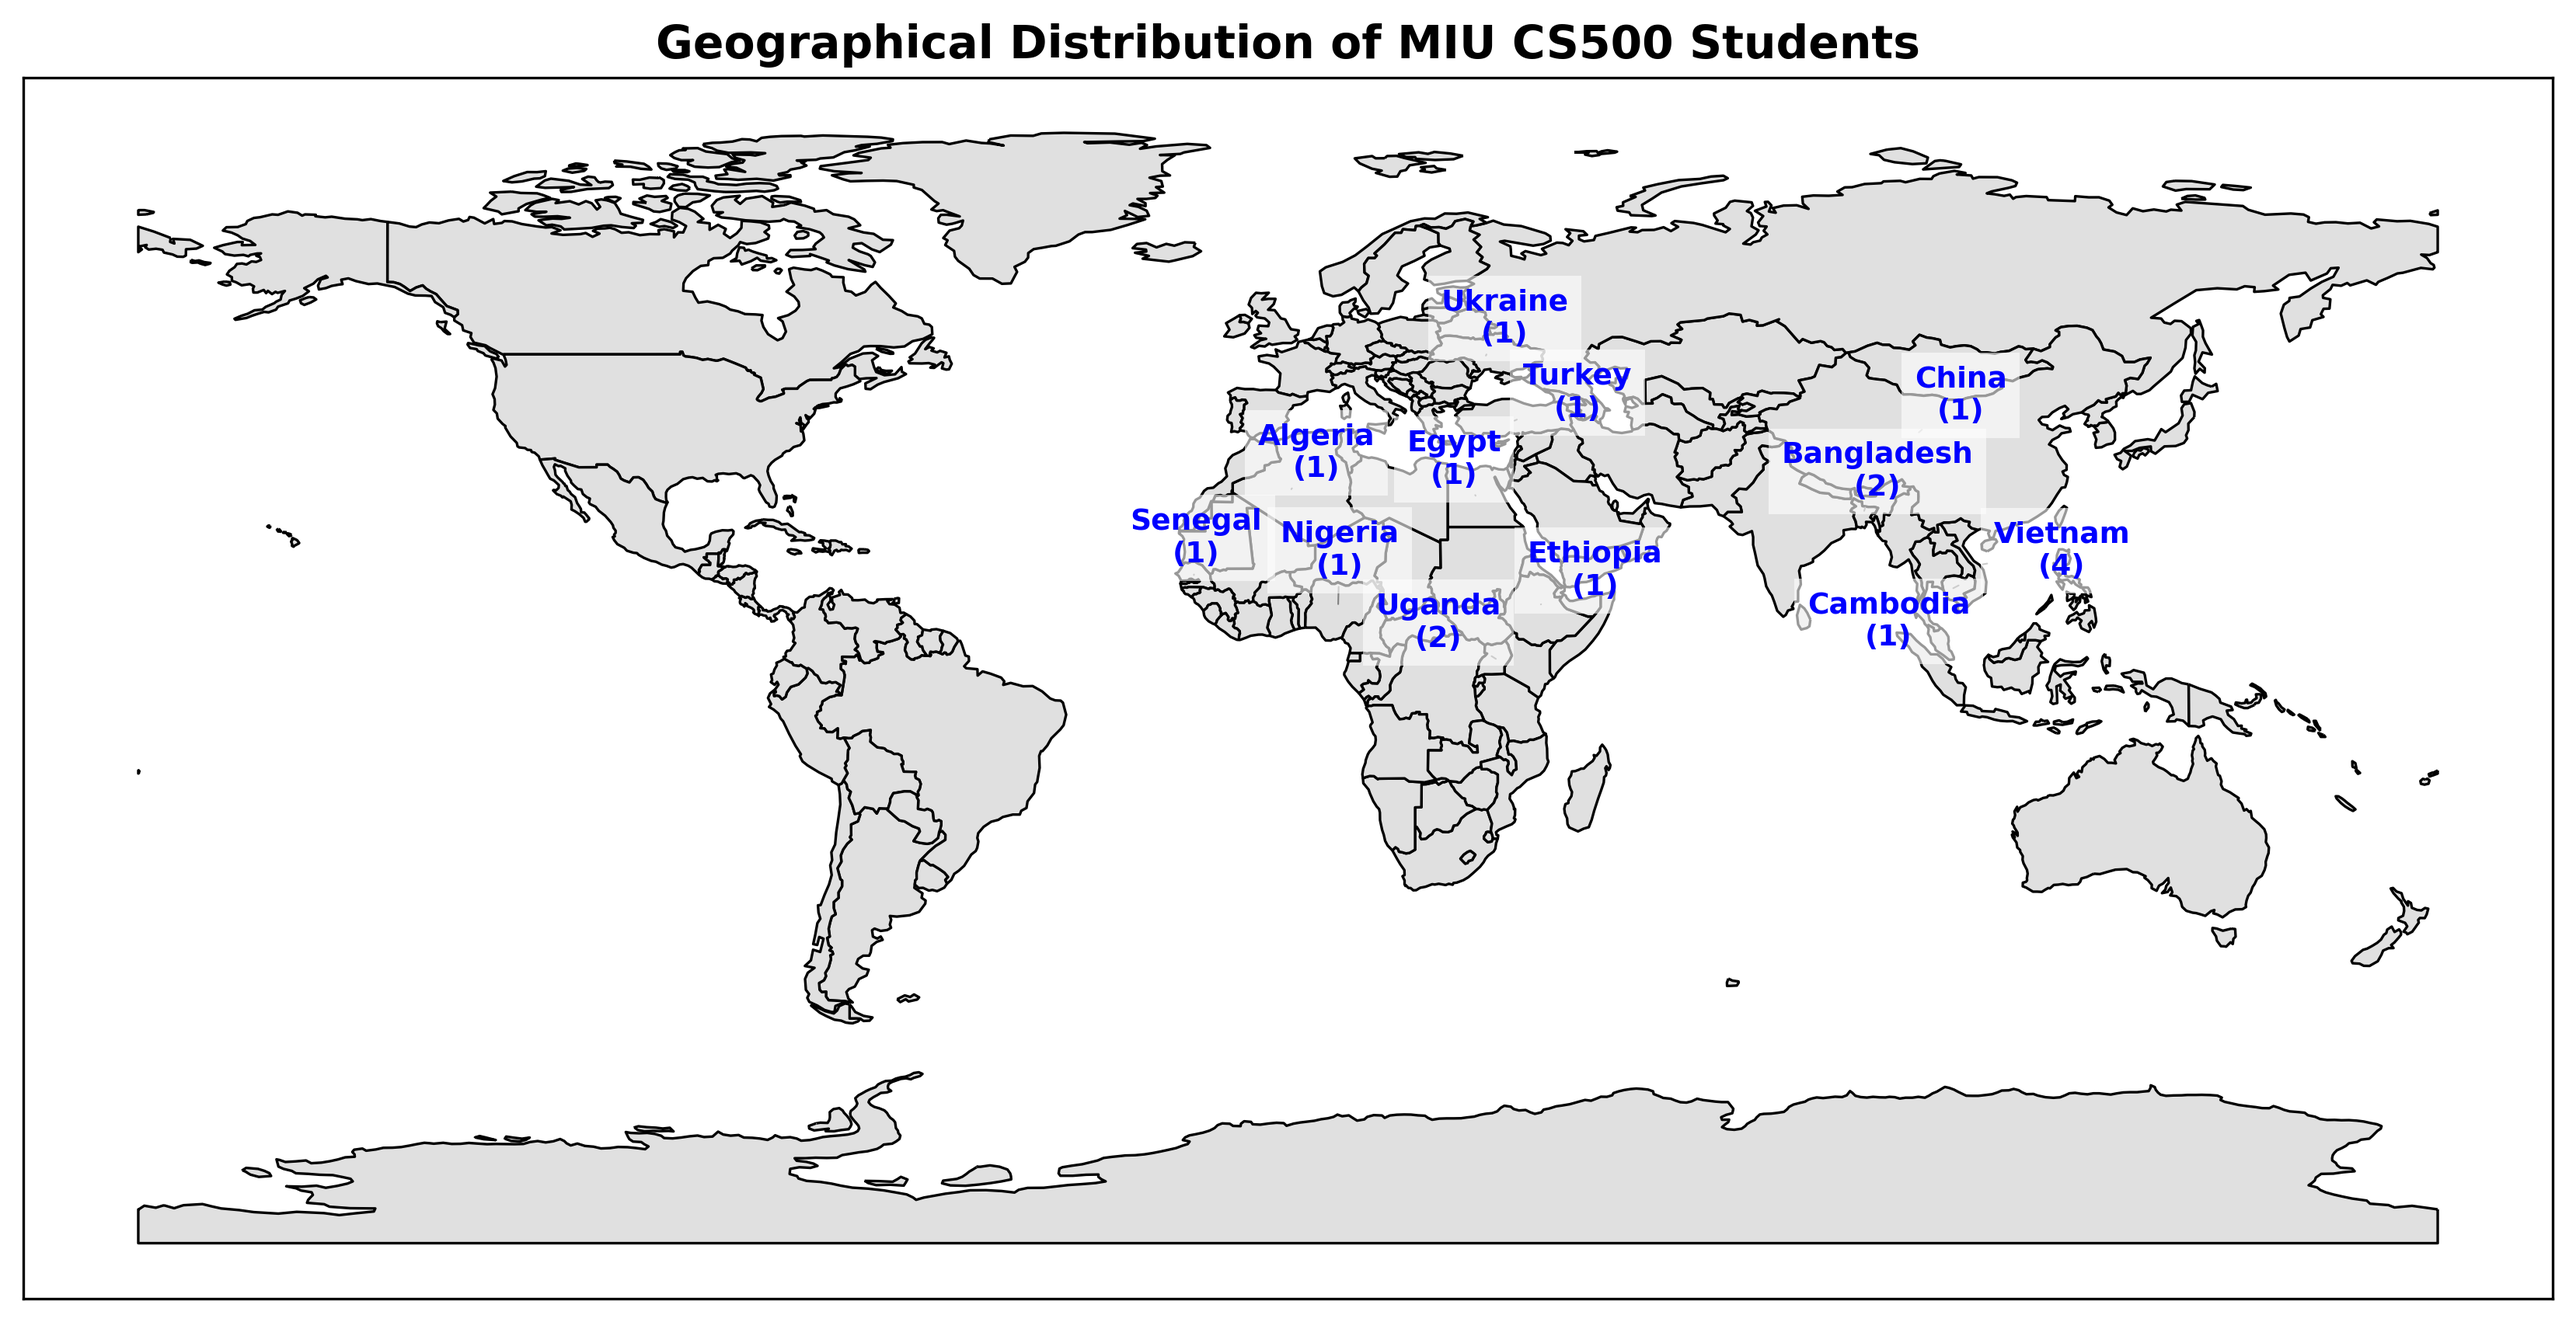
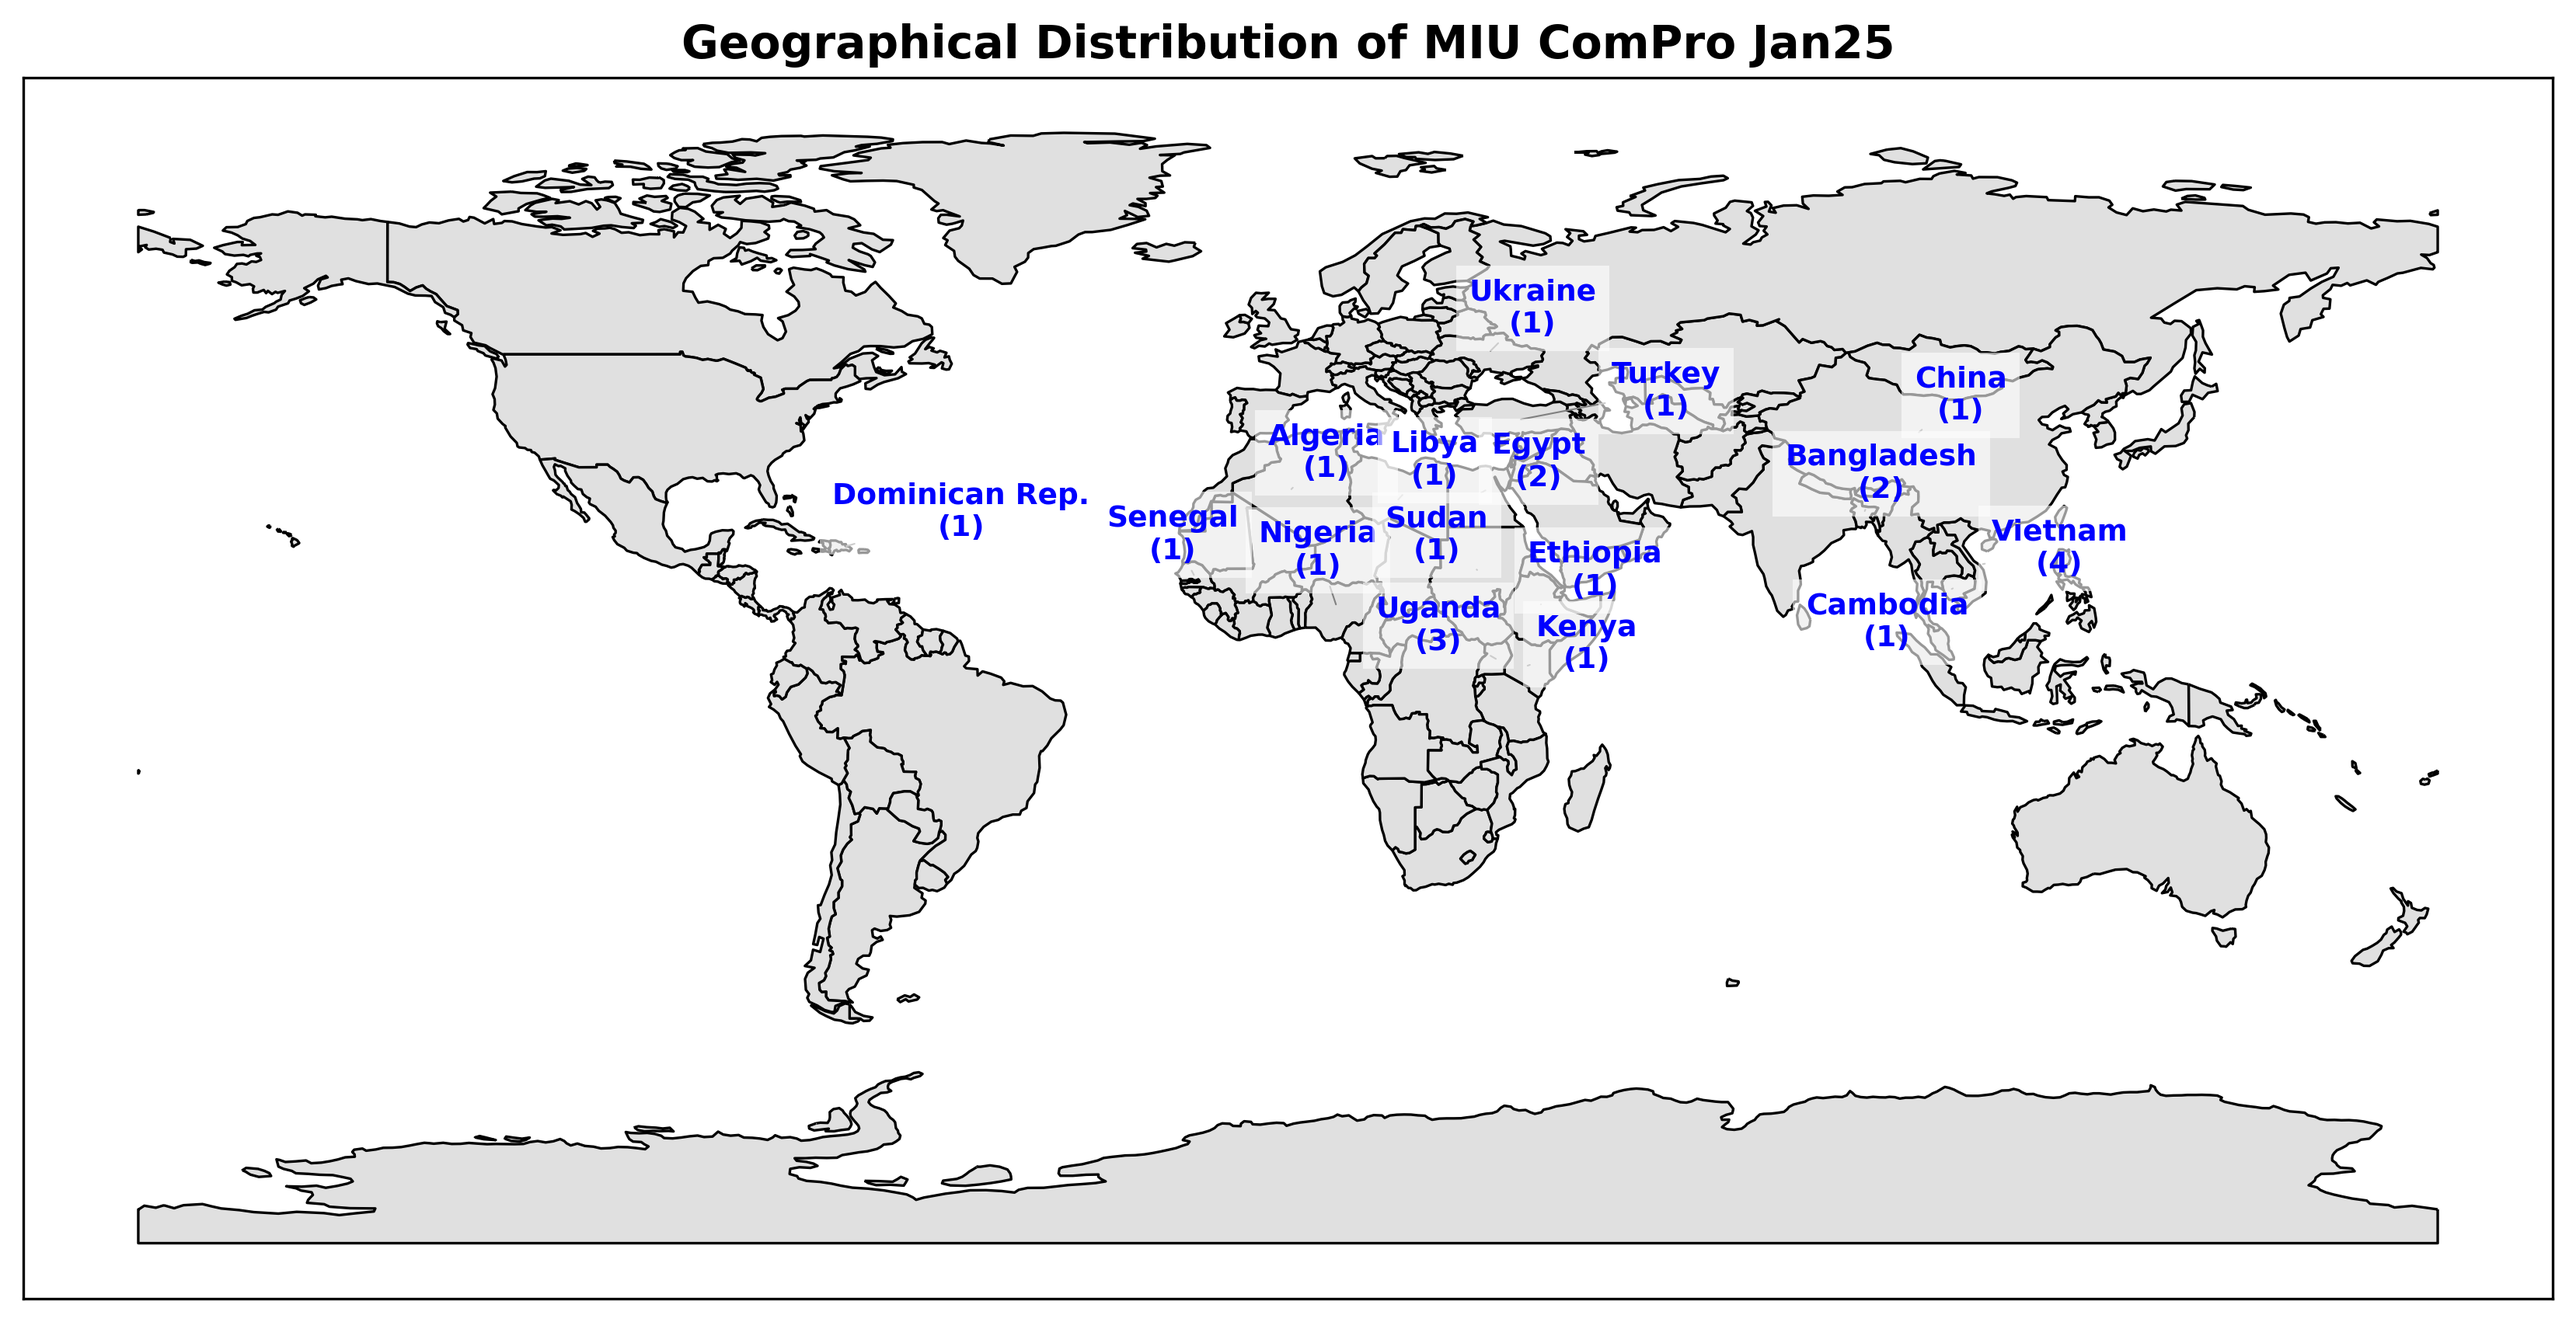
🌍 Added MIU ComPro Jan25 Student Distribution Map

diff --git a/student_map.py b/student_map.py
@@ -1,0 +1,64 @@
+import matplotlib.pyplot as plt
+import geopandas as gpd
+import adjustText  # 防止文字重叠
+
+# 使用正确的 Shapefile 文件路径
+shapefile_path = "/Users/shuoshuo/Downloads/ne_110m_admin_0_countries/ne_110m_admin_0_countries.shp"
+world = gpd.read_file(shapefile_path)
+
+# 标注学生来自的国家及人数（已补充 4 人，共 20 人）
+students_by_country = {
+    "China": 1,
+    "Vietnam": 4,
+    "Cambodia": 1,
+    "Ethiopia": 1,
+    "Bangladesh": 2,
+    "Turkey": 1,
+    "Senegal": 1,
+    "Nigeria": 1,
+    "Uganda": 3,  # 增加了 Gideon Bamuleseyo
+    "Algeria": 1,
+    "Ukraine": 1,
+    "United States": 1,  # Instructor
+    "Egypt": 2,  # 增加了 Mohamed Sherif Mohamed Abdelhalim Abouselima
+    "Dominican Rep.": 1,  # 修正为正确国家
+    "Sudan": 1,  # Mohamed 可能也来自苏丹
+    "Kenya": 1,  # 增加了 Gideon Bamuleseyo
+    "Libya": 1,  # Mohamed 可能也来自利比亚
+}
+
+# 获取国家的地理中心点
+world["centroid"] = world.geometry.representative_point()
+centroids = world.set_index("NAME")["centroid"]  # "NAME" 是国家名称字段
+
+# 创建地图
+fig, ax = plt.subplots(figsize=(14, 7), dpi=300)  # 增加画布尺寸，提高分辨率
+world.plot(ax=ax, color="#e0e0e0", edgecolor="black", linewidth=0.8)  # 灰色地图，黑色国家边界
+
+# 标注国家位置及人数（防止文本重叠）
+texts = []
+for country, count in students_by_country.items():
+    if country in centroids.index:
+        x, y = centroids[country].x, centroids[country].y
+        text = ax.text(x, y, f"{country}\n({count})", fontsize=9, ha="center",
+                       color="blue", weight='bold', bbox=dict(facecolor='white', alpha=0.6, edgecolor='none'))
+        texts.append(text)
+
+# 自动调整文本位置，防止重叠
+adjustText.adjust_text(texts, arrowprops=dict(arrowstyle="-", color='gray', lw=0.5))
+
+# 设置标题
+ax.set_title("Geographical Distribution of MIU ComPro Jan25", fontsize=14, fontweight='bold')
+
+# 添加网格，使地图更清晰
+ax.grid(True, linestyle="--", linewidth=0.5, alpha=0.5)
+
+# 隐藏坐标轴
+ax.set_xticks([])
+ax.set_yticks([])
+
+# 保存高清图片
+plt.savefig("MIU_CS500_Student_Distribution_HD.png", dpi=300, bbox_inches="tight")
+
+# 显示地图
+plt.show()
